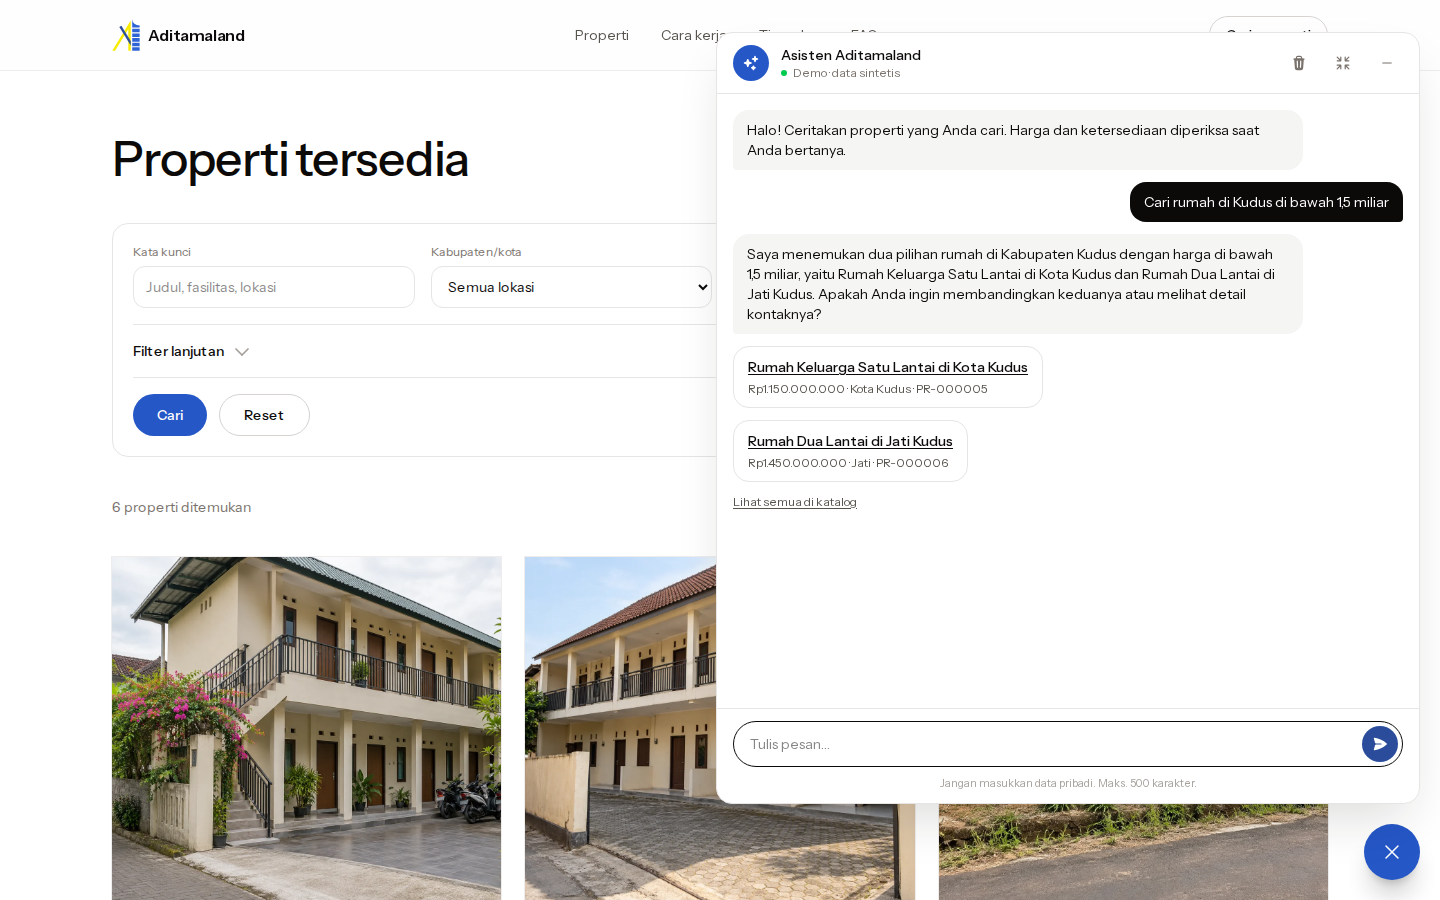
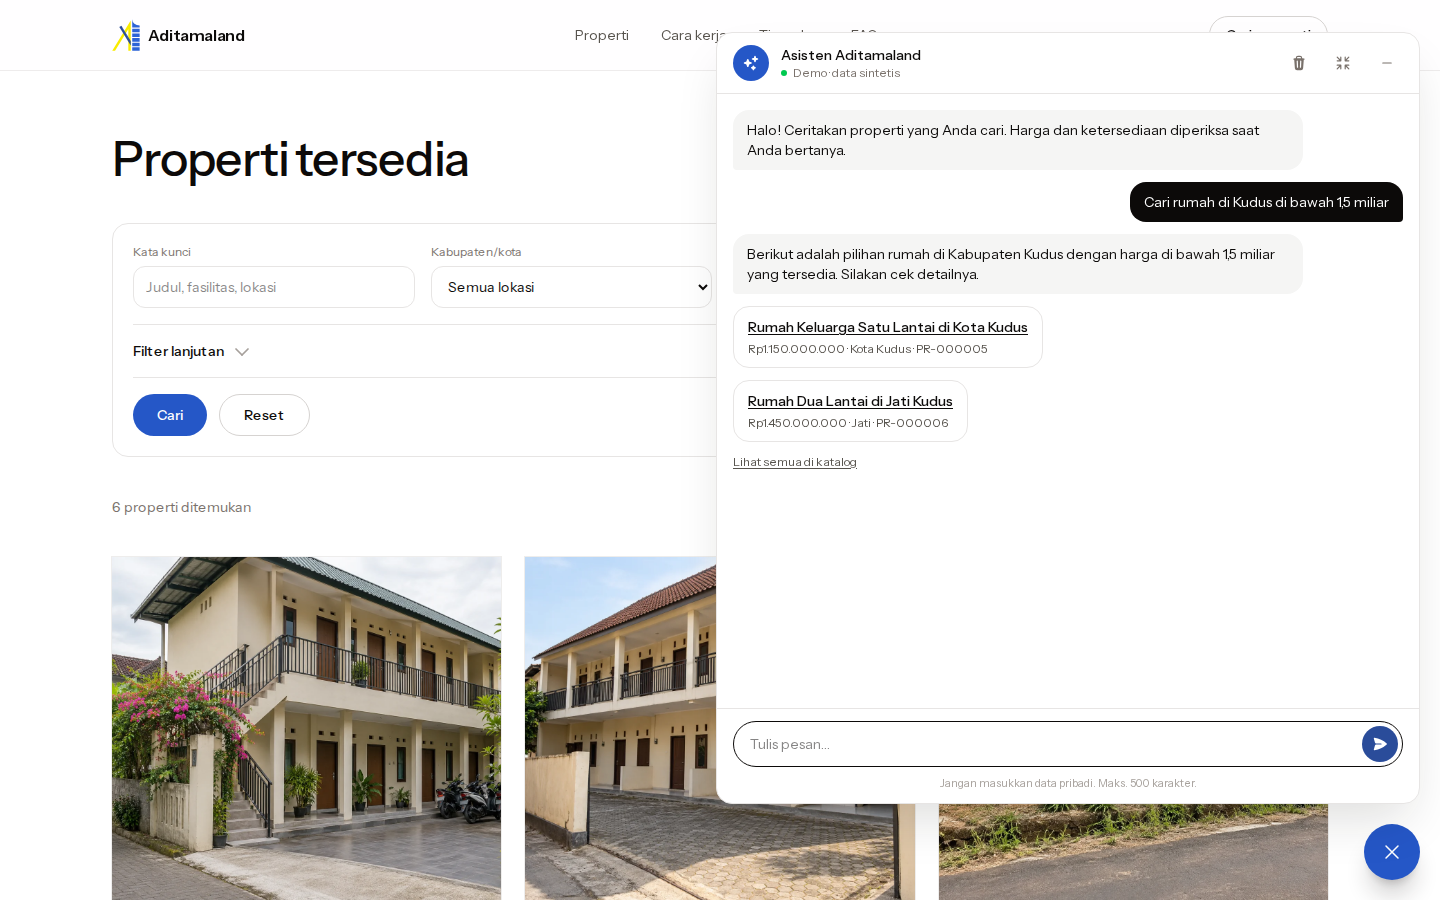
feat: raise assistant timeout to 60s, back to gemini-3.5-flash-lite; full AI conversation screenshots

Changed region(s): [[0.5, 0.28, 0.875, 0.56]]

diff --git a/app/Services/AssistantService.php b/app/Services/AssistantService.php
@@ -31,7 +31,7 @@ class AssistantService
             'pesan' => $message,
             'riwayat_pesan_pengguna' => array_map(AssistantGuard::redact(...), $history),
             'jumlah_hasil_sebelumnya' => count($lastIds),
-        ], JSON_UNESCAPED_UNICODE | JSON_THROW_ON_ERROR), provider: 'gemini', model: config('assistant.model'), timeout: 15);
+        ], JSON_UNESCAPED_UNICODE | JSON_THROW_ON_ERROR), provider: 'gemini', model: config('assistant.model'), timeout: 60);
         $scope = $response['scope'] ?? 'properti';
 
         if ($scope === 'di_luar_topik') {

diff --git a/config/assistant.php b/config/assistant.php
@@ -2,5 +2,5 @@
 
 return [
     'enabled' => (bool) env('AI_ASSISTANT_ENABLED', false),
-    'model' => 'gemini-3.1-flash-lite',
+    'model' => 'gemini-3.5-flash-lite',
 ];

diff --git a/README.md b/README.md
@@ -28,6 +28,8 @@ Aditamaland Property menjawabnya dengan satu sumber data:
 | ![Katalog](docs/screenshots/02-katalog.png) | ![Simulasi cicilan](docs/screenshots/03-detail-cicilan.png) |
 | **Asisten AI: pencarian** | **Asisten AI: perbandingan** |
 | ![Asisten AI mencari](docs/screenshots/04-chat-ai.png) | ![Asisten AI membandingkan](docs/screenshots/04b-chat-banding.png) |
+| **Asisten AI: kontak sales** | **Asisten AI: di luar topik** |
+| ![Asisten AI kontak sales](docs/screenshots/04c-chat-sales.png) | ![Asisten AI menolak topik](docs/screenshots/04d-chat-tolak.png) |
 | **Properti terjual** | **Dashboard admin** |
 | ![Properti terjual](docs/screenshots/05-terjual.png) | ![Dashboard admin](docs/screenshots/10-dashboard-admin.png) |
 | **Dashboard sales** | **Inventaris** |
